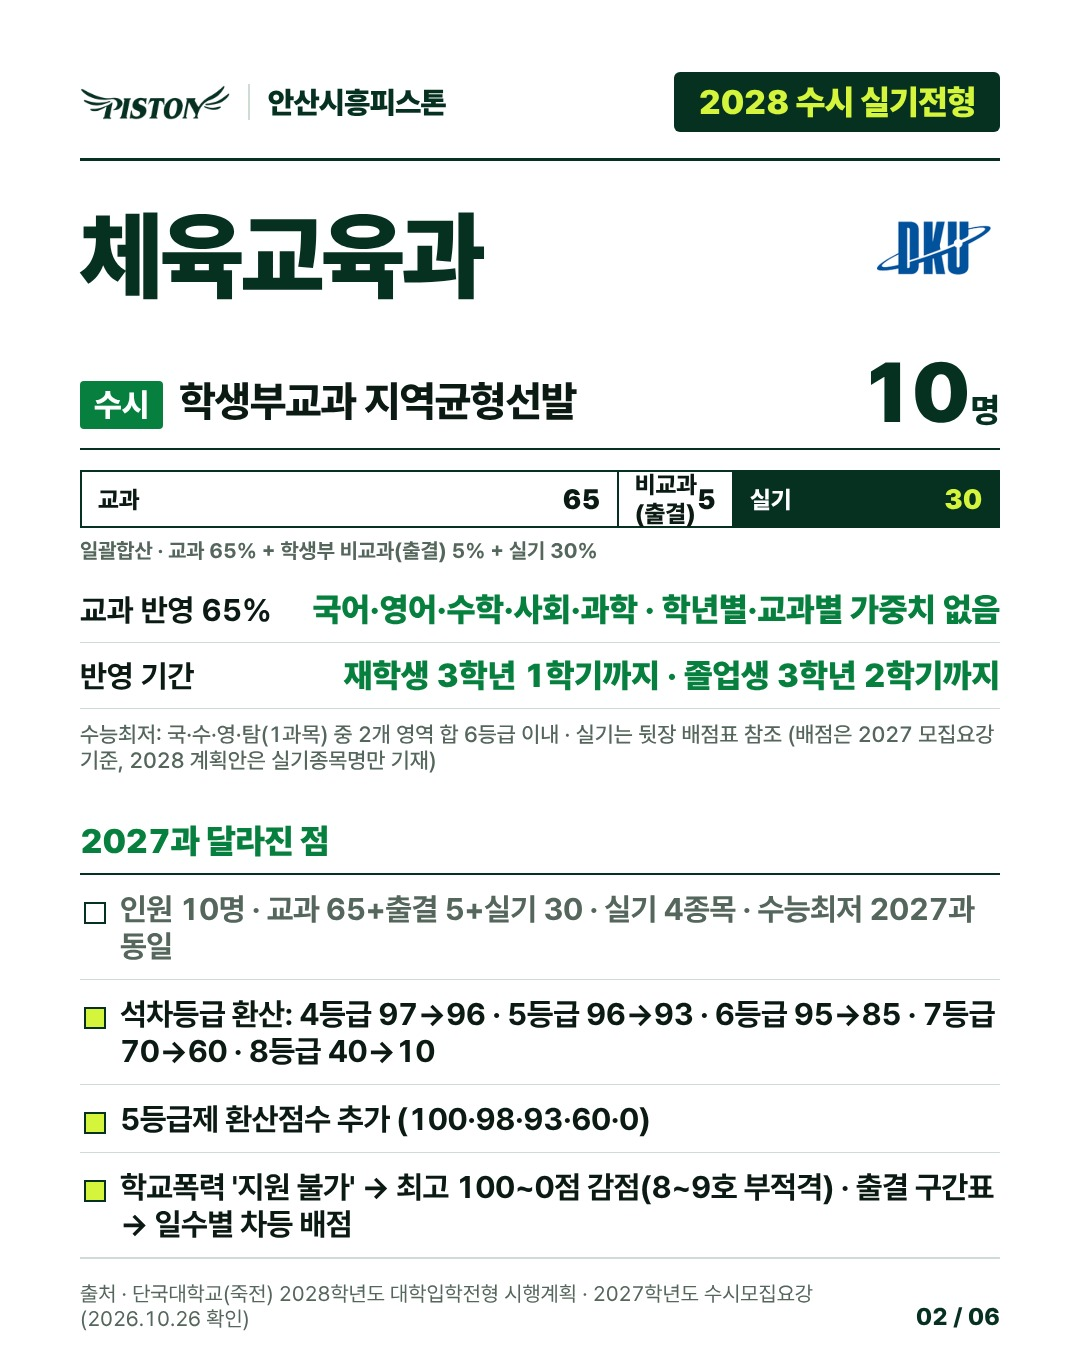
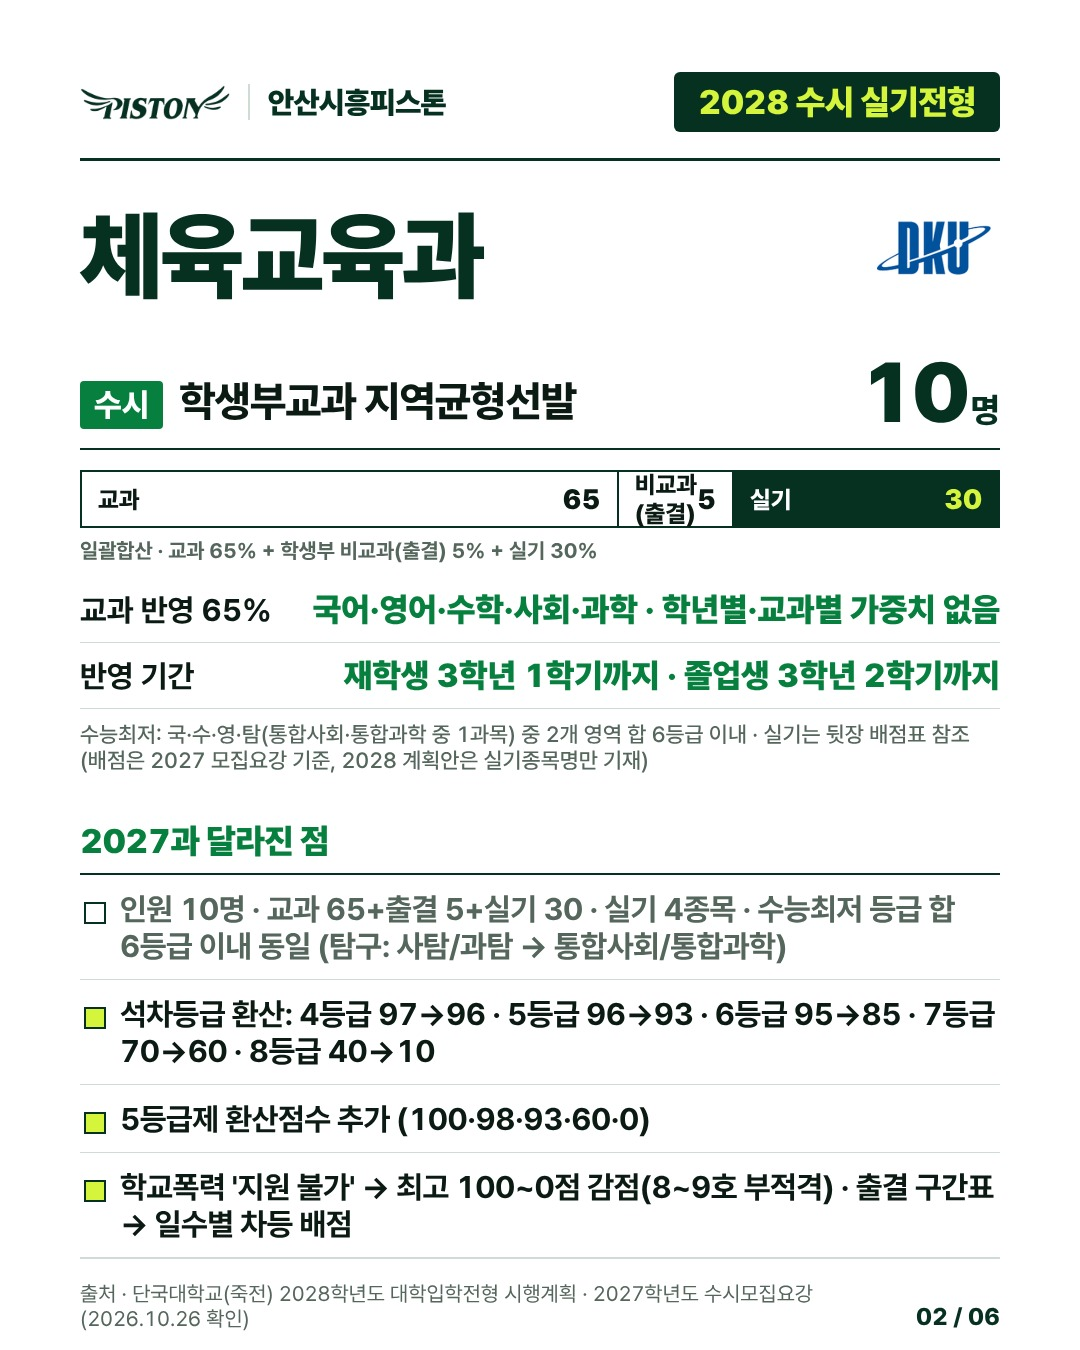
단국대(죽전) 수시: 수능최저 표기 수정, 검수 기록
Claude-Session: https://claude.ai/code/session_01EGTn7G8nWP1yv5M2jqmoFb

Changed region(s): [[0.0917, 0.5289, 0.9167, 0.5911], [0.0917, 0.6844, 0.7333, 0.7156], [0.7944, 0.6533, 0.9167, 0.6844]]

diff --git a/social/out/dankook-jukjeon-susi/factcheck.md b/social/out/dankook-jukjeon-susi/factcheck.md
@@ -1,0 +1,42 @@
+# 팩트체크: 단국대(죽전) 2028 수시 (체육교육과 지역균형선발)
+검수일 2026-10-26 / 기준: 단국대 공식 PDF (2028 대학입학전형계획, 2027 수시모집요강) / 검수 방식: 데이터·이미지 12장·blog·caption 독립 대조
+
+| 항목 | 카드 값 | 원문 값 | 원문 위치 | 판정 |
+|---|---|---|---|---|
+| 모집시기·전형 | 수시 학생부교과 지역균형선발 | 지역균형선발 (체육교육과 별도 전형방법) | 2028계획 p6, p20 | 일치 |
+| 모집인원 2028 | 10명 | 체육교육과 지역균형 10 (열 위치 확인) | 2028계획 p8 | 일치 |
+| 모집인원 2027 ("인원 10명 동일") | 10명 | 10명 | 2027수시 p44 | 일치 |
+| 반영비율 2028 | 교과 65 + 비교과(출결) 5 + 실기 30, 일괄합산 | 동일 | 2028계획 p6, p20 | 일치 |
+| 반영비율 2027 | 65·5·30 동일 | 65·5·30 (실질 69.15/5.32/25.53) | 2027수시 p27, p44 | 일치 |
+| 수능최저 2028 | 국·수·영·탐(1과목) 중 2개 영역 합 6등급 이내 | 국,수,영,탐구(통합사회/통합과학 중 1개 과목) 중 2개 영역 합 6등급 이내 (죽전) | 2028계획 p20 | 일치 |
+| **수능최저 "2027과 동일" / "수능최저 동일"** | 동일 | 2027: 수학(확률과통계/미적분/기하), **탐구(사탐/과탐 중 1개 과목)** / 2028: **탐구(통합사회/통합과학 중 1개 과목)**. 등급 합 6등급·2개 영역은 같으나 탐구 과목 구성이 바뀜 | 2027수시 p44, 2028계획 p20 (변경 표 p5에도 수능최저 항목 있음) | **불일치(과장)** |
+| 교과 반영 | 국어·영어·수학·사회·과학, 학년별·교과별 가중치 없음, 재학생 3-1까지·졸업생 3-2까지 | 동일 (체육교육과 포함) | 2028계획 p33 | 일치 |
+| 9등급 환산 2027 | 100/99/98/97/96/95/70/40/0 | 동일 | 2027수시 p82 | 일치 |
+| 9등급 환산 2028 | 100/99/98/96/93/85/60/10/0 | 동일 | 2028계획 p34 | 일치 |
+| 변경 방향 (4등급 97→96, 5등급 96→93, 6등급 95→85, 7등급 70→60, 8등급 40→10) | 2027→2028 방향 | 방향 정확 | p82 vs p34 | 일치 |
+| 5등급제 환산 2028 | 100/98/93/60/0 ("추가") | 5등급제 1→100, 2→98, 3→93, 4→60, 5→0; 2027 수시 요강에는 5등급제 환산표 없음 | 2028계획 p33 / 2027수시 p82 | 일치 |
+| 학교폭력 | 2027 '지원 불가' → 2028 최고 100점~0점 감점, 8~9호 부적격 (총점 1,000점 기준) | 2027 지역균형 '지원 불가' / 2028 입학 총점(1,000점)에서 최고 100점~최저 0점 감점, 8~9호 부적격 | 2027수시 p83, 2028계획 p36 | 일치 |
+| 출결 2027 구간 | 0~5일 100·6~10일 98·11~15일 94·16~20일 80·21~30일 60·31일 이상 0 | 동일 (미인정 결석만) | 2027수시 p83 | 일치 |
+| 출결 2028 | '미인정출결 일수에 따른 차등 배점'만 기재 | 동일, 구간 점수 없음 | 2028계획 p34 | 일치 |
+| 실기 배점표 9등급 x 8열 (72칸) 전부 | 9.90이하/9.91/10.12/10.32/10.52/10.72/10.92/11.12/11.32 (남 왕복), 11.00이하/11.01/11.22/11.42/11.62/11.82/12.02/12.22/12.42 (여 왕복), 높이 남155~115·여125~85, 윗몸 남 29.6/29.5/27.1/24.9/22.4/19.1/15.5/12.1/10.0·여 32.6/32.5/31.2/28.9/25.2/23.1/20.0/17.0/15.0, 배구 남 28/27/25/22/20/18/16/13/10·여 23/22/20/18/16/14/12/10/8 | 동일 (각 구간의 시작값; 윗몸·배구는 구간 높은 쪽) | 2027 PDF 수시 p45 / 정시 p33 | 일치 |
+| 등급별 점수 100·92·84·76·68·60·52·44·36, 실격 기본점수 20점 | 동일 | 동일 | 일치 |
+| 종목 4개·각 25%·왕복달리기(10m×4회)·배구스킬(30초) | 동일 | 동일 | 일치 |
+| 실기종목명 4종목 (2028) | 왕복달리기·높이뛰기·앉아윗몸앞으로굽히기·배구스킬테스트 | 동일 | 2028계획 p20(수시) / p25(정시) | 일치 |
+| 배점표 주석 (5cm 단위, 9등급 못 미치면 실격) | 높이 5cm 단위 / 9등급 넘으면 실격 | 5cm 단위 / 9등급에 못 미치면 실격(또는 2회 파울) | 2027수시 p45 | 일치 |
+| 추측성 표현 (예상/예정/유리/올해 등) | 없음 (grep 0건) | - | caption·blog | 일치 |
+| '올해' 표기 | 없음, '2028학년도' 사용 | - | caption | 일치 |
+| 이미지 12장 잘림/겹침/넘침 | post-1~6, story 모두 잘림·겹침 없음 | - | out 이미지 | 일치 |
+
+## 불일치 목록 (고칠 것)
+1. "수능최저 2027과 동일 / 수능최저 동일" (data changes[0], post-2, caption 수시 체크 3번, blog 변경점) : 6등급·2개 영역은 같으나 탐구가 '사탐/과탐 중 1개 과목' → '통합사회/통합과학 중 1개 과목'으로 바뀜. "등급 합 기준은 동일, 탐구 과목은 통합사회/통합과학으로 변경" 식으로 정정 필요. 2028 계획안 p5 변경 표에도 수능최저 항목이 있으므로 변경점 목록에도 반영.
+
+## 참고(판정 외)
+- 누락 후보: 2028 지원자격·지원불가 고교, 실기일정(2028 미기재 시) - 필수 아님.
+- 로고: DKU 로고에 글자가 포함되어 있음(저장된 선호는 글자 없는 심볼). post-1 크게, 나머지는 작게 배치. 로고 파일 data/schools/dankook-jukjeon.png 은 확인 경로에 없었음(렌더에는 반영됨).
+- post-3~5, story 하단 여백 큼(잘림·넘침 아님).
+- blog의 학원 소개 문구는 원문 대조 대상 아님.
+
+## 최종 판정: **불합격** (불일치 1건)
+
+## 재검수 (지적 항목만, 2026.10.26)
+- 수능최저 "2027과 동일" → "등급 합 6등급 이내 동일, 탐구는 사탐/과탐 → 통합사회/통합과학 변경"으로 수정 (2027 수시 p.44 / 2028 계획안 p.20·5 근거, 독립 검수 지적). data·카드(post-2)·caption·blog 반영 확인. 최종 판정: 통과

diff --git a/social/out/dankook-jukjeon-jeongsi-jeongsi/factcheck.md b/social/out/dankook-jukjeon-jeongsi-jeongsi/factcheck.md
@@ -1,0 +1,38 @@
+# 팩트체크: 단국대(죽전) 2028 정시 (체육교육과 수능위주 일반학생 다군)
+검수일 2026-10-26 / 기준: 단국대 공식 PDF (2028 대학입학전형계획, 2027 정시모집요강) / 검수 방식: 데이터·이미지 7장·blog·caption 독립 대조
+
+| 항목 | 카드 값 | 원문 값 | 원문 위치 | 판정 |
+|---|---|---|---|---|
+| (1) 모집군 2028 | 다군 | 체육교육과 40명 중 정시 30명이 '다군' 열(x좌표 517~520) 아래. 모집군 변경 표(p5)는 피아노전공 가군→나군만 기재, 체육교육과 변경 없음 | 2028계획 p8, p5 | 일치 |
+| 모집군 2027 | 다군 | 다군 열(x=340) 30명, 실기고사도 다군 일정 | 2027정시 p26, p25 | 일치 |
+| 모집인원 2028 / 2027 | 30명 / 30명 | 30 / 30 | 2028계획 p8, 2027정시 p26 | 일치 |
+| 반영비율 2028 | 수능 65 + 출결 5 + 실기 30, 일괄합산 | 동일 | 2028계획 p5, p6, p25 | 일치 |
+| 반영비율 2027 | 수능 70 + 실기 30 (방향 70→65) | 동일 (실질 74.47/25.53) | 2027정시 p28, 2028계획 p5 | 일치 |
+| 수능 영역비율 2028 | 국어 40·수학 10·영어 20·탐구 통합사회 15·통합과학 15 | 체육교육과 40/10/20/15/15 (한국사 가산점) | 2028계획 p35 | 일치 |
+| 수능 영역비율 2027 | 국 40·수 10·영 20·탐구 30 (사탐/과탐 2과목 평균) | 40/10/20/탐 30, 탐구 2과목 평균 | 2027정시 p30 | 일치 |
+| 탐구 변경 방향 | 사탐/과탐 30 → 통합사회 15 + 통합과학 15 | 방향 정확 | p30 vs p35 | 일치 |
+| 활용지표 | 백분위, 영어 등급별 환산 | 백분위 / 영어 등급별 환산점수 | 2028계획 p35 | 일치 |
+| 영어 환산 (2027·2028 동일) | 100/98/95/85/70/40/15/5/0 | 양쪽 동일 | 2027정시 p30, 2028계획 p35 | 일치 |
+| 한국사 | 응시 필수, 등급별 가산점, 총점 1,000점에 합산 | 동일 | 2028계획 p35 | 일치 |
+| 2027 수학(미적분/기하)·과탐 5% 가산, 2028 기재 없음 | 동일 서술 | 2027 p30·p31에 있음, 2028 가산점 언급은 p35 한국사뿐 | 2027정시 p30,p31 / 2028 전체 검색 | 일치 |
+| 수능최저 | 없음 | 없음 | 2028계획 p25 | 일치 |
+| 학교폭력 2027 | 1~3호 없음, 4·5호 10점, 6·7호 30점, 8·9호 50점 | 열 위치 대조: 1~3호 없음 / 4·5호 10 / 6·7호 30 / 8·9호 50 | 2027정시 p31 | 일치 |
+| 학교폭력 2028 | 총점 1,000점에서 최고 100점~0점 감점, 8~9호 부적격 | 동일 | 2028계획 p36 | 일치 |
+| 출결 | 2028 신설, 미인정출결 일수 차등 배점, 구간점수 원문 미기재 | 2028 계획 비교과(출결) 5 신설, p34 차등 배점만 기재 | 2028계획 p5, p34 | 일치 |
+| 실기 배점표 9등급 x 8열 (72칸) 전부 | 9.90이하/9.91/10.12/10.32/10.52/10.72/10.92/11.12/11.32 (남 왕복), 11.00이하/11.01/11.22/11.42/11.62/11.82/12.02/12.22/12.42 (여 왕복), 높이 남155~115·여125~85, 윗몸 남 29.6/29.5/27.1/24.9/22.4/19.1/15.5/12.1/10.0·여 32.6/32.5/31.2/28.9/25.2/23.1/20.0/17.0/15.0, 배구 남 28/27/25/22/20/18/16/13/10·여 23/22/20/18/16/14/12/10/8 | 동일 (각 구간의 시작값; 윗몸·배구는 구간 높은 쪽) | 2027 PDF 수시 p45 / 정시 p33 | 일치 |
+| 등급별 점수 100·92·84·76·68·60·52·44·36, 실격 기본점수 20점 | 동일 | 동일 | 일치 |
+| 종목 4개·각 25%·왕복달리기(10m×4회)·배구스킬(30초) | 동일 | 동일 | 일치 |
+| 실기종목명 4종목 (2028) | 왕복달리기·높이뛰기·앉아윗몸앞으로굽히기·배구스킬테스트 | 동일 | 2028계획 p20(수시) / p25(정시) | 일치 |
+| 모집인원 변동 가능 문구 | 수시 등록결과에 따라 변동 가능 | 동일 문구 (2027 요강 기재, 2028 계획안에는 없음 - 출처 2027) | 2027정시 p28 | 일치(출처 2027) |
+| 추측성 표현 / '올해' | 없음, '2028학년도' 사용 | - | caption·blog | 일치 |
+| 이미지 7장 잘림/겹침/넘침 | 없음 | - | out 이미지 | 일치 |
+
+## 불일치 목록
+없음.
+
+## 참고(판정 외)
+- 로고: DKU 로고에 글자 포함(저장된 선호는 글자 없는 심볼).
+- post-3~5, story 하단 여백 큼(잘림·넘침 아님).
+- 누락 후보(필수 아님): 한국사 등급별 가산점 수치(5·4·3·2·1·0), 2028 실기 일정.
+
+## 최종 판정: **통과** (불일치·누락·추측 0건)

diff --git a/social/out/dankook-jukjeon-susi/blog.md b/social/out/dankook-jukjeon-susi/blog.md
@@ -11,13 +11,13 @@
 ### 수시 학생부교과 지역균형선발 — 10명
 - 반영비율: 교과 65% + 비교과(출결) 5% + 실기 30% (일괄합산 · 교과 65% + 학생부 비교과(출결) 5% + 실기 30%)
 - 실기종목: 왕복달리기(10m×4회) 25% · 100점 (100~36), 높이뛰기 25% · 100점 (100~36), 앉아윗몸앞으로굽히기 25% · 100점 (100~36), 배구스킬테스트(30초) 25% · 100점 (100~36)
-- 수능최저: 국·수·영·탐(1과목) 중 2개 영역 합 6등급 이내 · 실기는 뒷장 배점표 참조 (배점은 2027 모집요강 기준, 2028 계획안은 실기종목명만 기재)
+- 수능최저: 국·수·영·탐(통합사회·통합과학 중 1과목) 중 2개 영역 합 6등급 이내 · 실기는 뒷장 배점표 참조 (배점은 2027 모집요강 기준, 2028 계획안은 실기종목명만 기재)
 
 [이미지: post-2.jpg]
 
 ## 2027학년도와 달라진 점
 **체육교육과**
-- 인원 10명 · 교과 65+출결 5+실기 30 · 실기 4종목 · 수능최저 2027과 동일
+- 인원 10명 · 교과 65+출결 5+실기 30 · 실기 4종목 · 수능최저 등급 합 6등급 이내 동일 (탐구: 사탐/과탐 → 통합사회/통합과학)
 - 석차등급 환산: 4등급 97→96 · 5등급 96→93 · 6등급 95→85 · 7등급 70→60 · 8등급 40→10
 - 5등급제 환산점수 추가 (100·98·93·60·0)
 - 학교폭력 '지원 불가' → 최고 100~0점 감점(8~9호 부적격) · 출결 구간표 → 일수별 차등 배점
